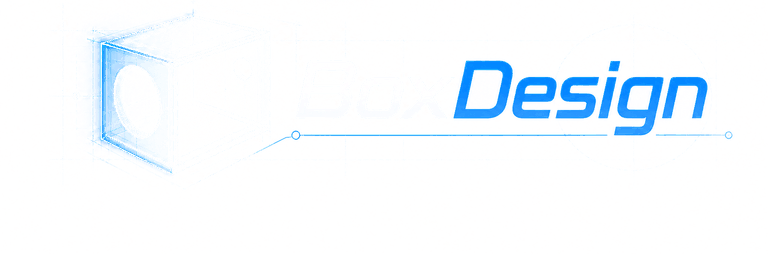
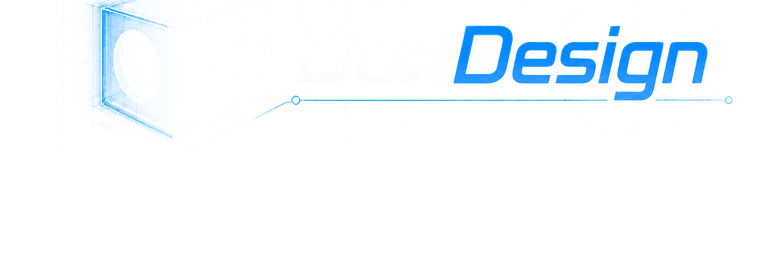
style: modify box_design_tab.png to vertically align text and remove CSS hack

Changed region(s): [[0.3438, 0.0938, 0.9688, 0.5625], [0.0938, 0.0, 0.2188, 0.6875], [0.3438, 0.4062, 0.375, 0.4375]]

diff --git a/ui_app.py b/ui_app.py
@@ -498,10 +498,6 @@ def _workspace_tab_styles() -> str:
             box-shadow: 0 0 0 1px rgba(255,32,43,.22), 0 0 18px rgba(255,32,43,.16);
             filter: none;
         }
-        .st-key-workspace_tab_box_design div[data-testid="stButton"] button {
-            background-position: center 30% !important;
-            background-size: 104% !important;
-        }
         .st-key-workspace_tab_box_design div[data-testid="stButton"]
         button[data-testid="stBaseButton-primary"] {
             background-color: #000000 !important;
